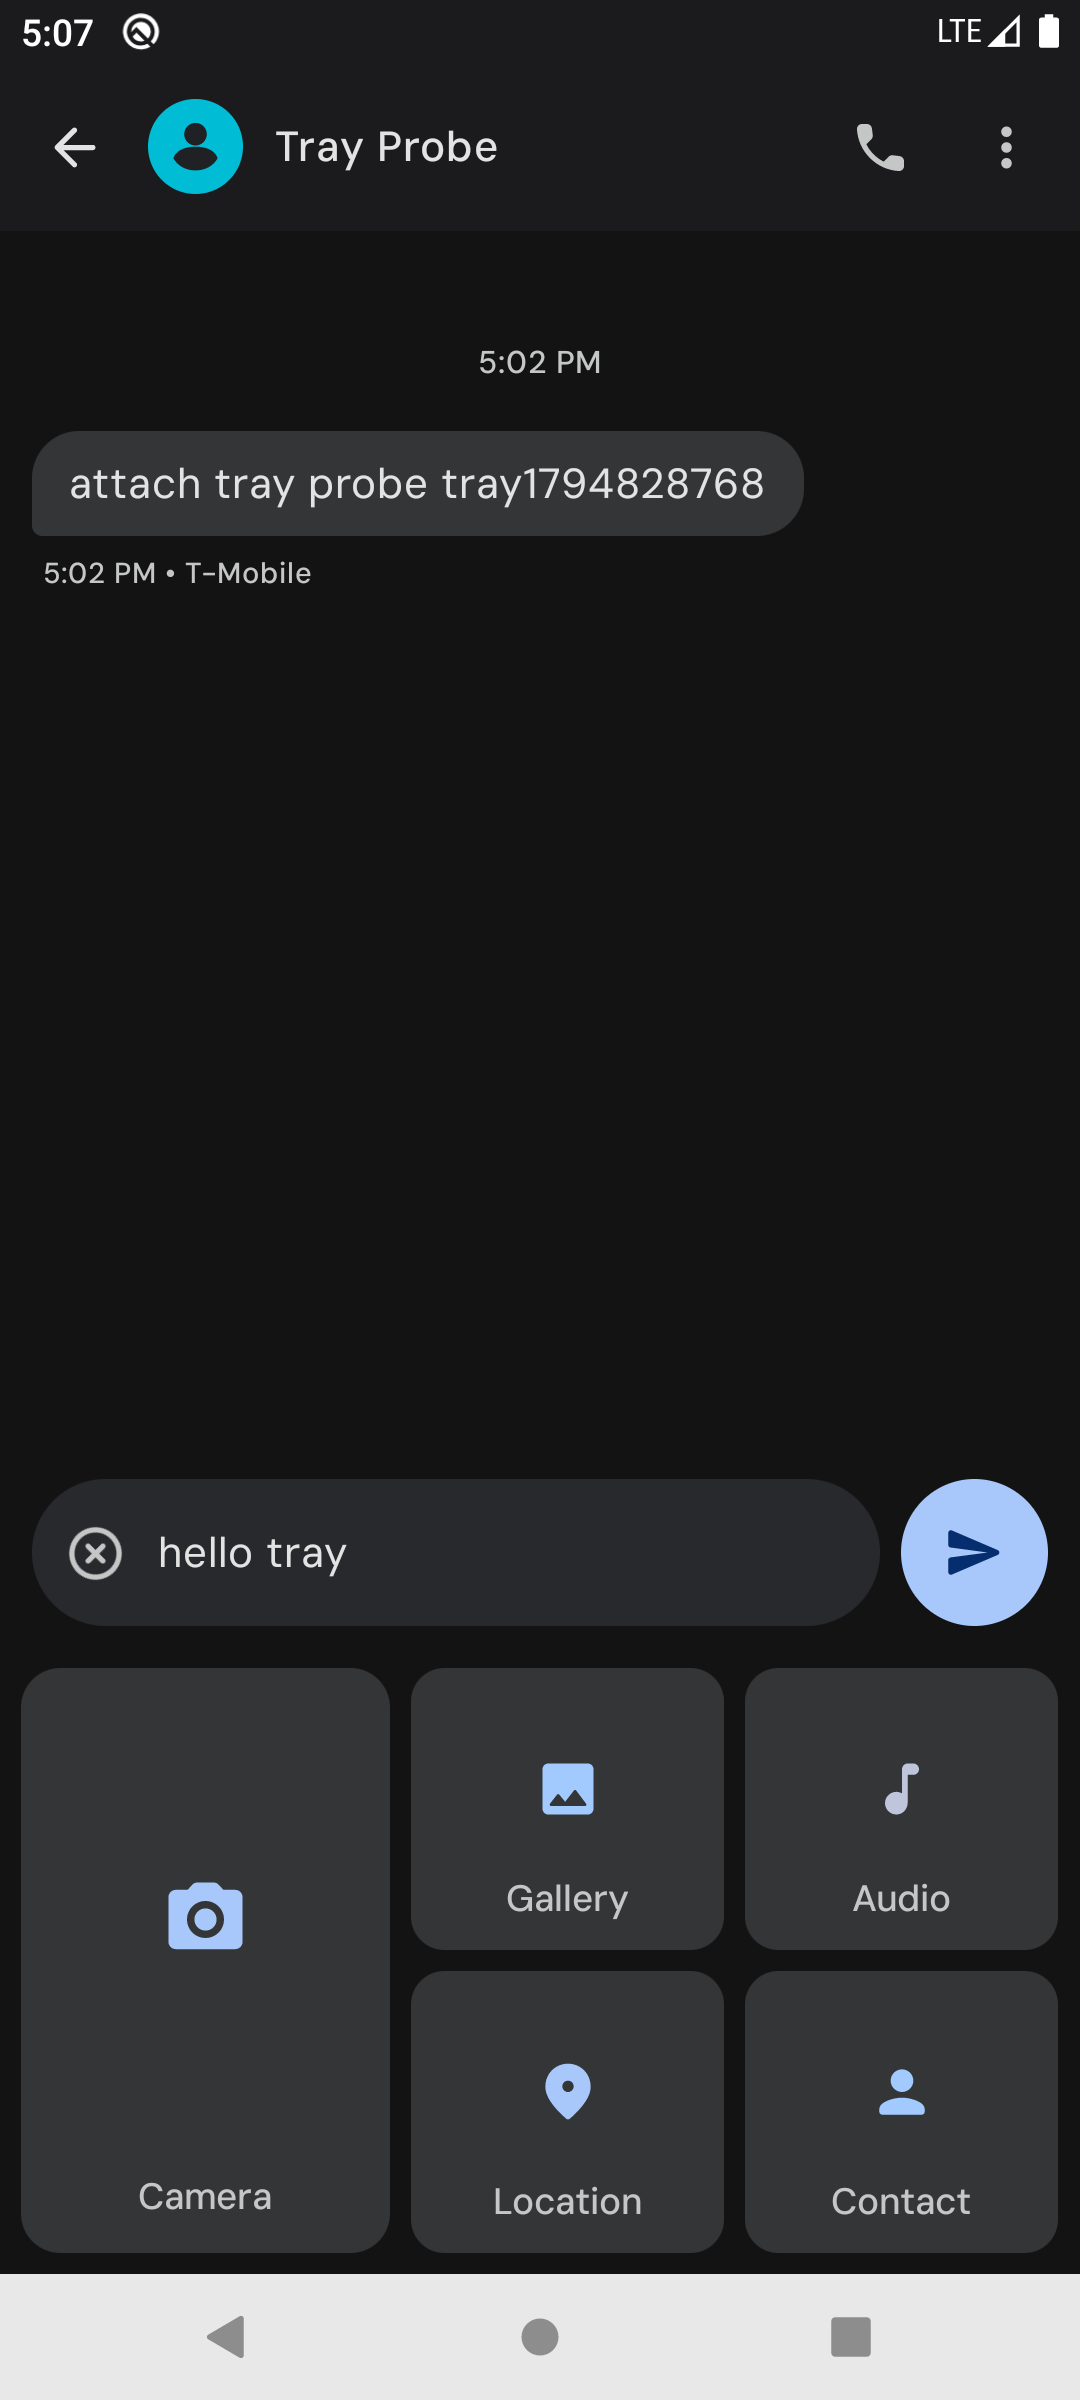
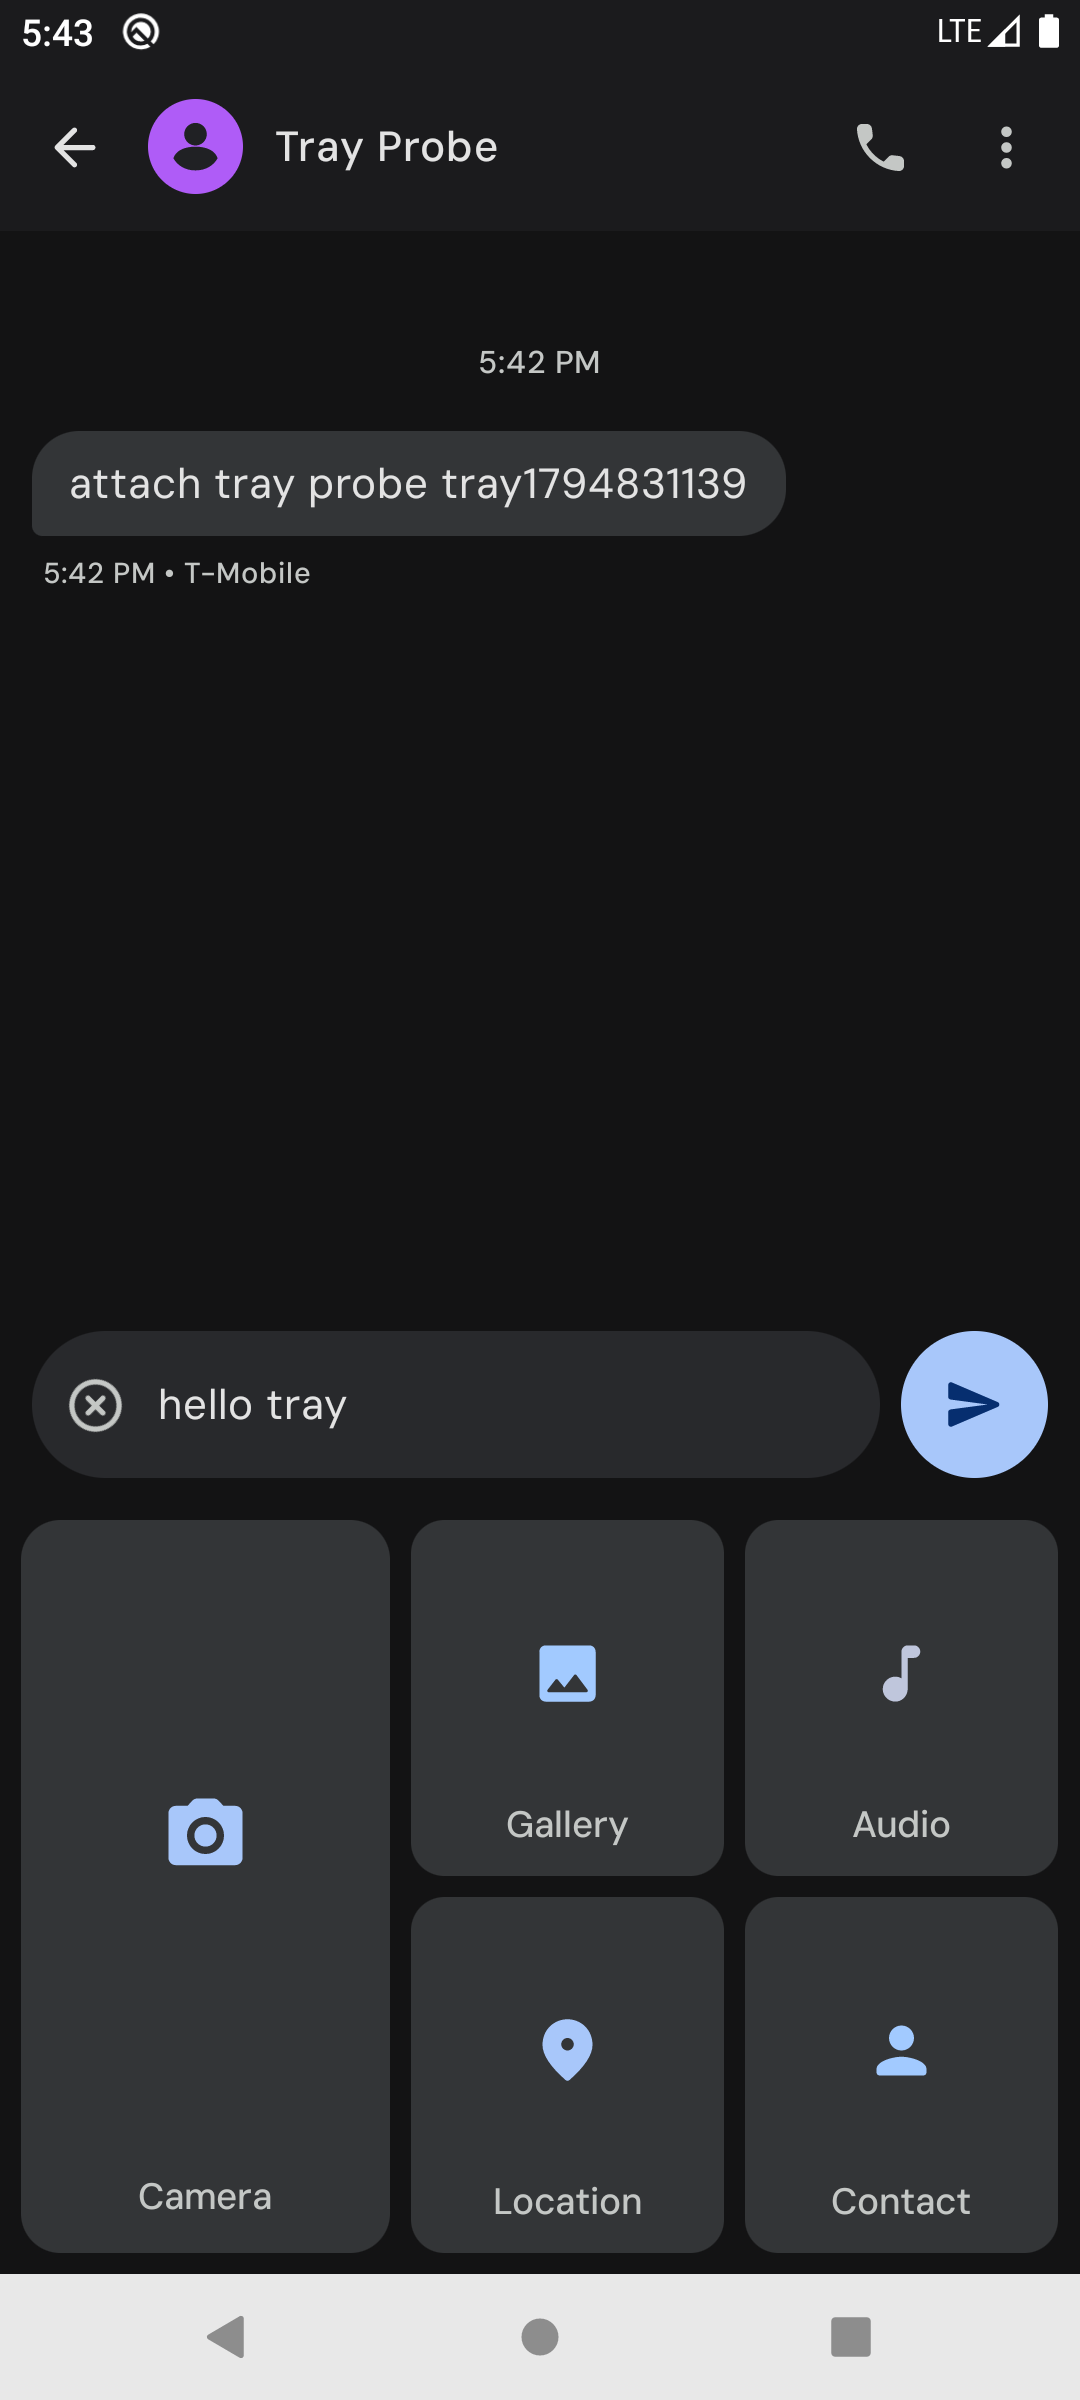
feat: the tray is built to the keyboard's height
The tray replaces the keyboard's slot but was a fixed height, so the
composer dropped a little whenever the keyboard went away. It now takes
the measured height of this device's keyboard.

The IME inset arrives in animation frames — the first ones describe a
half-open keyboard — so the height is read again 450 ms after it appears
and remembered. Every keyboard open re-reads it, so a taller IME, a
landscape keyboard or the user's own height setting drags the tray with
it. Tiles grow to fill the slot, capped at 1.35x their width so a tablet's
keyboard does not turn them into columns; a slot shorter than the grid
leaves the tiles alone rather than squashing them.

AttachTrayHeight names both numbers in logcat, which is what the
regression script compares: the field measures 0 px of movement across
the swap.

diff --git a/app/src/main/java/com/anindra/messages/ui/AttachTray.kt b/app/src/main/java/com/anindra/messages/ui/AttachTray.kt
@@ -94,12 +94,18 @@ internal object AttachTrayMetrics {
 
     private const val UNITS = REFERENCE_CAMERA_DP + REFERENCE_TILE_DP * COLUMNS
 
+    /**
+     * Tiles stop growing past this, measured as height over width. Without a
+     * cap a tablet's keyboard would turn the tray into a wall of portraits.
+     */
+    const val MAX_TILE_ASPECT = 1.35f
+
     /** Content width is the tray's width after [PAGE_PAD_DP] on each side. */
-    fun sizes(contentWidthDp: Float): AttachTraySizes {
+    fun sizes(contentWidthDp: Float, targetHeightDp: Float? = null): AttachTraySizes {
         val scalable = (contentWidthDp - GAP_DP * 2).coerceAtLeast(1f)
         val scale = scalable / UNITS
         val tileWidth = REFERENCE_TILE_DP * scale
-        return AttachTraySizes(
+        val base = AttachTraySizes(
             cameraWidth = (REFERENCE_CAMERA_DP * scale).dp,
             tile = tileWidth.dp,
             tileHeight = (tileWidth * TILE_ASPECT).dp,
@@ -107,6 +113,15 @@ internal object AttachTrayMetrics {
             pagePad = PAGE_PAD_DP.dp,
             verticalPad = VERTICAL_PAD_DP.dp
         )
+        // The keyboard's slot is what the tray replaces, so it is sized to it:
+        // the two rows grow to fill it and the composer never moves. A slot
+        // shorter than the grid's natural height leaves the tiles alone rather
+        // than squashing them.
+        val target = targetHeightDp ?: return base
+        if (target <= base.height.value) return base
+        val roomForRow = (target - base.verticalPad.value * 2 - base.gap.value) / 2f
+        val tileHeight = roomForRow.coerceAtMost(base.tile.value * MAX_TILE_ASPECT)
+        return base.copy(tileHeight = tileHeight.dp)
     }
 }
 
@@ -123,7 +138,9 @@ internal fun AttachTray(
     cameraLabel: String,
     cameraIcon: ImageVector,
     actions: List<AttachAction>,
-    modifier: Modifier = Modifier
+    modifier: Modifier = Modifier,
+    /** The height the keyboard last had, so the tray takes exactly its slot. */
+    keyboardHeight: Dp? = null
 ) {
     val colors = MaterialTheme.colorScheme
     // One accent per tile, cycled from the scheme's three so a dynamic palette
@@ -142,7 +159,12 @@ internal fun AttachTray(
                 .fillMaxWidth()
                 .padding(horizontal = AttachTrayMetrics.PAGE_PAD_DP.dp)
         ) {
-            val sizes = AttachTrayMetrics.sizes(maxWidth.value)
+            val sizes = AttachTrayMetrics.sizes(maxWidth.value, keyboardHeight?.value)
+            android.util.Log.d(
+                "AttachTrayHeight",
+                "content=${maxWidth.value} target=${keyboardHeight?.value} " +
+                    "tray=${sizes.height.value} tile=${sizes.tileHeight.value}"
+            )
             Row(
                 Modifier
                     .fillMaxWidth()

diff --git a/app/src/main/java/com/anindra/messages/ui/ChatScreen.kt b/app/src/main/java/com/anindra/messages/ui/ChatScreen.kt
@@ -1015,6 +1015,29 @@ fun ChatScreen(
     // bar's own column pads that separately: without taking one out, the
     // composer floats a navigation bar above the keyboard.
     val keyboardInset = (imeBottom - navBottom).coerceAtLeast(0.dp)
+    // Remember how tall this device's keyboard is. The tray replaces that slot,
+    // so it is built to the same height and follows a resized keyboard (a taller
+    // one in landscape, a different IME, the user's own height setting).
+    var keyboardSlot by rememberSaveable { mutableFloatStateOf(0f) }
+    // The IME's inset arrives in animation frames — the first ones describe a
+    // half-open keyboard — so the height is read again once it has settled.
+    // Every open re-reads it, which is what makes the tray follow a resized
+    // keyboard instead of remembering the first one it ever saw.
+    var imeSeen by remember { mutableFloatStateOf(0f) }
+    LaunchedEffect(imeBottom) { imeSeen = imeBottom.value }
+    LaunchedEffect(imeBottom > 0.dp) {
+        if (imeBottom <= 0.dp) return@LaunchedEffect
+        delay(450)
+        val settled = imeSeen - navBottom.value
+        if (settled > 120f) keyboardSlot = settled
+    }
+    LaunchedEffect(imeBottom, navBottom, keyboardSlot, attachOpen) {
+        android.util.Log.d(
+            "AttachTrayHeight",
+            "ime=${imeBottom.value} nav=${navBottom.value} inset=${keyboardInset.value} " +
+                "slot=$keyboardSlot open=$attachOpen"
+        )
+    }
     // Picked media waits here until the user sends it, so a picture can be
     // explained or dropped before it leaves — it is no longer sent on pick.
     val pendingMedia = remember { mutableStateListOf<Uri>() }
@@ -2018,6 +2041,7 @@ fun ChatScreen(
                                 cameraLauncher.launch(cameraFileUri!!)
                             }
                         },
+                        keyboardHeight = keyboardSlot.takeIf { it > 0f }?.dp,
                         actions = listOf(
                             AttachAction(
                                 label = stringResource(R.string.chat_media_gallery),

diff --git a/app/src/test/java/com/anindra/messages/ui/AttachTrayMetricsTest.kt b/app/src/test/java/com/anindra/messages/ui/AttachTrayMetricsTest.kt
@@ -59,6 +59,47 @@ class AttachTrayMetricsTest {
     }
 
     @Test
+    fun theTrayTakesTheKeyboardsSlot() {
+        // 261 dp is what this AVD's keyboard measures after the navigation bar
+        // is taken out: the tray must fill exactly that so nothing moves.
+        val sizes = AttachTrayMetrics.sizes(396f, targetHeightDp = 261f)
+
+        assertEquals(261f, sizes.height.value, 0.3f)
+        // Two rows, two gaps' worth of padding and one gap between them.
+        assertEquals(261f, sizes.cameraHeight.value + sizes.verticalPad.value * 2, 0.3f)
+    }
+
+    @Test
+    fun aTallerKeyboardGrowsTheTiles() {
+        val taller = AttachTrayMetrics.sizes(396f, targetHeightDp = 300f)
+
+        assertTrue("tiles grow with the slot", taller.tileHeight > taller.tile * 0.9f)
+        assertTrue("and the tray fills it", taller.height.value > 290f)
+    }
+
+    @Test
+    fun aTallScreenKeyboardDoesNotMakeTheTilesAbsurd() {
+        // A tablet keyboard is far taller than a phone's; the tiles stop growing
+        // rather than turning into columns.
+        val sizes = AttachTrayMetrics.sizes(396f, targetHeightDp = 520f)
+
+        assertEquals(
+            AttachTrayMetrics.MAX_TILE_ASPECT,
+            sizes.tileHeight.value / sizes.tile.value,
+            epsilon
+        )
+    }
+
+    @Test
+    fun aShorterSlotLeavesTheTilesAlone() {
+        val natural = AttachTrayMetrics.sizes(396f)
+        val short = AttachTrayMetrics.sizes(396f, targetHeightDp = 180f)
+
+        assertEquals(natural.tileHeight.value, short.tileHeight.value, epsilon)
+        assertEquals(natural.height.value, short.height.value, epsilon)
+    }
+
+    @Test
     fun aNarrowScreenStillGetsUsableTiles() {
         // 360 dp phone: the grid shrinks rather than pushing a column off screen.
         val sizes = AttachTrayMetrics.sizes(344f)
